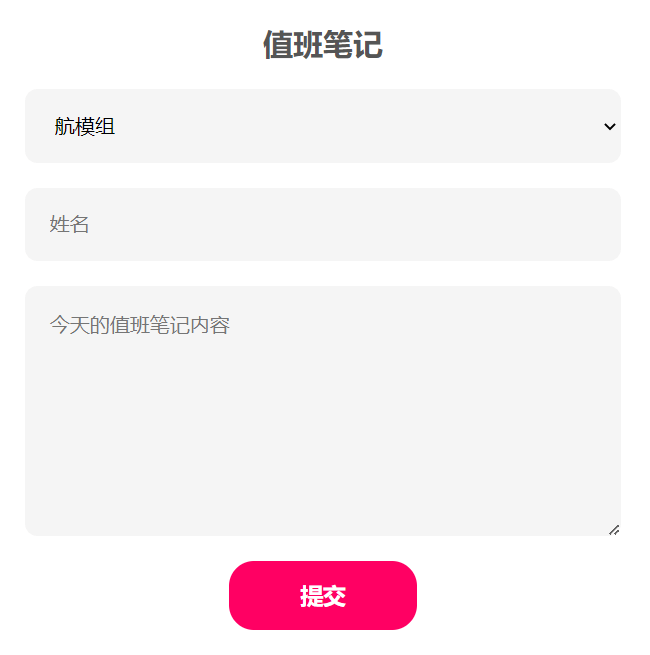
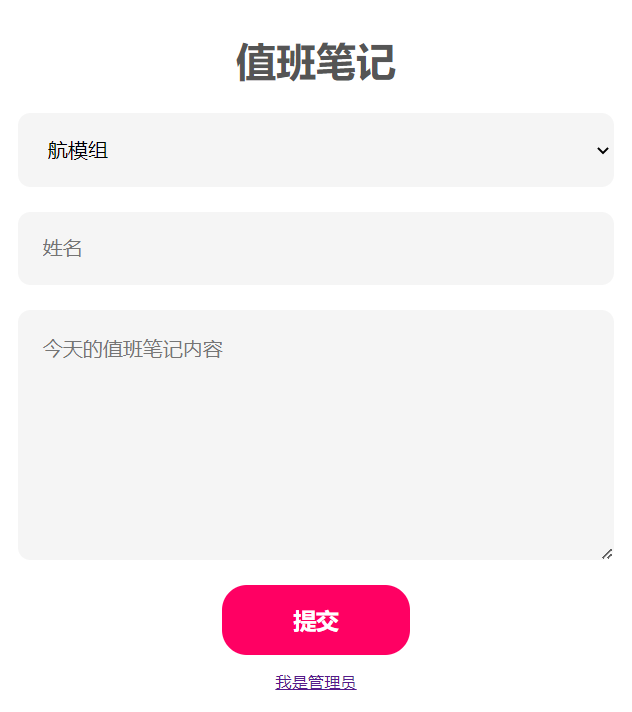
Update:README,help,admin

diff --git a/app.js b/app.js
@@ -87,29 +87,17 @@ app.get("/export", checkAuthenticated, (req, res) => {
   worksheet.columns = worksheet_columns;
   worksheet.addRows(punch_export);
 
-  // Style sheets
-  // Fill background color
-  worksheet.eachRow((row, rowNum) => {
-    row.eachCell((cell) => {
-      if (rowNum % 2 == 0) {
-        cell.fill = {
-          type: "pattern",
-          pattern: "solid",
-          fgColor: { argb: "efefef" },
-        };
-      }
-    });
-  });
   // Wrap text and alignment
   Object.keys(punch_export[0]).forEach((prop) => {
     worksheet.getColumn(prop).width = 10;
     worksheet.getColumn(prop).font = { size: 14 };
-    worksheet.getColumn(prop).alignment = { vertical: "top", horizontal: "left", wrapText: true };
+    worksheet.getColumn(prop).alignment = { vertical: "middle", horizontal: "center" };
     if (prop === "time") {
       worksheet.getColumn(prop).width = 15;
     }
     if (prop === "notes") {
       worksheet.getColumn(prop).width = 100;
+      worksheet.getColumn(prop).alignment = { vertical: "middle", horizontal: "left", wrapText: true };
     }
   });
   // Header style

diff --git a/public/css/admin/help.css b/public/css/admin/help.css
@@ -41,7 +41,7 @@
     margin: 10px auto 30px;
     padding: 20px;
     outline: none;
-    background: #e6e6e6;
+    background: #f5f5f5;
     font-size: 16px;
     border-radius: 10px;
 }

diff --git a/public/css/admin/style.css b/public/css/admin/style.css
@@ -125,7 +125,6 @@ table tr:nth-child(even) {
 
 table th{
     padding: 12px;
-    text-align: center;
     background-color: #5da68d;
     color: white;
 }

diff --git a/README.md b/README.md
@@ -99,3 +99,7 @@ git clone https://github.com/MR-Addict/punch.git
 ```bash
 docker-compose up -d
 ```
+
+## 4. 后台管理
+
+后台账号请联系部长或者组长。
